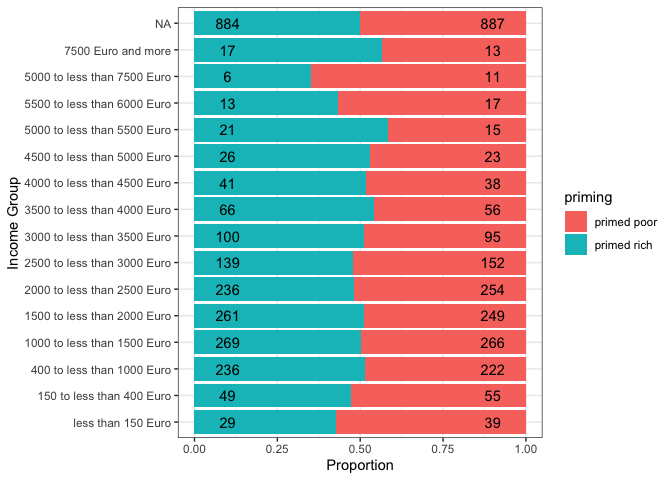
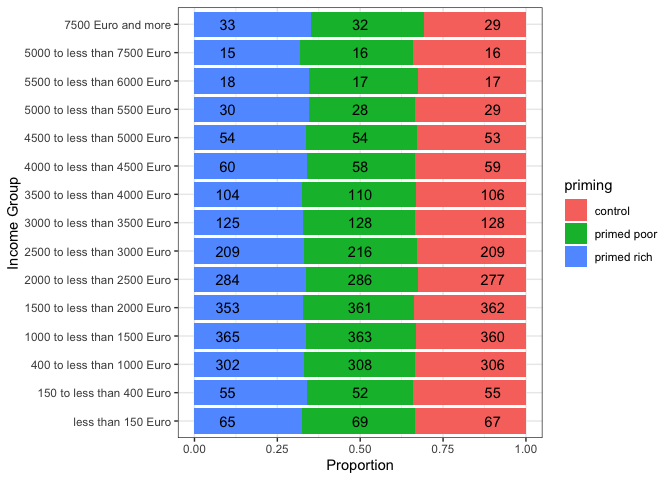
add figure a1.2

diff --git a/replication-survey1.md b/replication-survey1.md
@@ -282,17 +282,16 @@ income_labels <- c("less than 150 Euro",
                    "5000 to less than 7500 Euro",
                    "7500 Euro and more")
 
-xx <- dat_study1 %>%
-    mutate(income = factor(dat_study1$income, 
-                           labels = income_labels))
+to_plot <- dat_study1 %>%
+    mutate(income = factor(income, labels = income_labels))
 
-counts <- xx %>%
+counts <- to_plot %>%
     count(income, priming) %>%
     mutate(pos = case_when(priming == "primed poor" ~ 0.9,
                            priming == "primed rich" ~ 0.1))
 
-xx %>%
-    ggplot(aes(x = as.factor(income), group = priming)) + 
+to_plot %>%
+    ggplot(aes(x = income, group = priming)) + 
     geom_bar(aes(fill = priming), position = "fill") + 
     geom_text(data = counts, aes(y = pos, label = n)) + 
     coord_flip() + 
@@ -552,3 +551,45 @@ control OR between the poor and control conditions) at the 0.1, 0.05,
 0.01 levels, respectively. Daggers (`†`, `† †`, `† † †`) indicate
 significance (between the rich and poor conditions) at the 0.1, 0.05,
 0.01 levels, respectively.
+
+## Figure A1.1
+
+To create figure A1.1, convert income into a factor variable with proper
+labels, then generate counts, and plot the data.
+
+``` r
+income_labels <- c("less than 150 Euro",
+                   "150 to less than 400 Euro",
+                   "400 to less than 1000 Euro",
+                   "1000 to less than 1500 Euro",
+                   "1500 to less than 2000 Euro",
+                   "2000 to less than 2500 Euro",
+                   "2500 to less than 3000 Euro",
+                   "3000 to less than 3500 Euro",
+                   "3500 to less than 4000 Euro",
+                   "4000 to less than 4500 Euro",
+                   "4500 to less than 5000 Euro",
+                   "5000 to less than 5500 Euro",
+                   "5500 to less than 6000 Euro",
+                   "5000 to less than 7500 Euro",
+                   "7500 Euro and more")
+
+to_plot <- dat_study2 %>%
+    mutate(income = factor(q37, labels = income_labels))
+
+counts <- to_plot %>%
+    count(income, priming) %>%
+    mutate(pos = case_when(priming == "primed poor" ~ 0.5,
+                           priming == "primed rich" ~ 0.1, 
+                           .default = 0.9))
+
+to_plot %>%
+    ggplot(aes(x = income, group = priming)) + 
+    geom_bar(aes(fill = priming), position = "fill") + 
+    geom_text(data = counts, aes(y = pos, label = n)) + 
+    coord_flip() + 
+    theme_bw() + 
+    ylab("Proportion") + xlab("Income Group")
+```
+
+![](replication-survey1_files/figure-gfm/unnamed-chunk-5-1.png)<!-- -->
